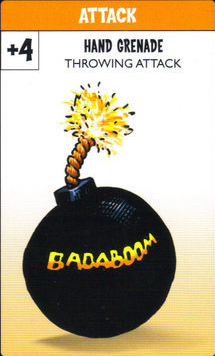
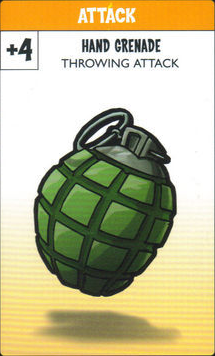
Added classes and stuff :)

diff --git a/test.html b/test.html
@@ -1,66 +1,210 @@
 <head>
+	<script>
+	/* Simple JavaScript Inheritance
+ * By John Resig http://ejohn.org/
+ * MIT Licensed.
+ */
+// Inspired by base2 and Prototype
+(function(){
+  var initializing = false, fnTest = /xyz/.test(function(){xyz;}) ? /\b_super\b/ : /.*/;
+
+  // The base Class implementation (does nothing)
+  this.Class = function(){};
+ 
+  // Create a new Class that inherits from this class
+  Class.extend = function(prop) {
+    var _super = this.prototype;
+   
+    // Instantiate a base class (but only create the instance,
+    // don't run the init constructor)
+    initializing = true;
+    var prototype = new this();
+    initializing = false;
+   
+    // Copy the properties over onto the new prototype
+    for (var name in prop) {
+      // Check if we're overwriting an existing function
+      prototype[name] = typeof prop[name] == "function" &&
+        typeof _super[name] == "function" && fnTest.test(prop[name]) ?
+        (function(name, fn){
+          return function() {
+            var tmp = this._super;
+           
+            // Add a new ._super() method that is the same method
+            // but on the super-class
+            this._super = _super[name];
+           
+            // The method only need to be bound temporarily, so we
+            // remove it when we're done executing
+            var ret = fn.apply(this, arguments);       
+            this._super = tmp;
+           
+            return ret;
+          };
+        })(name, prop[name]) :
+        prop[name];
+    }
+   
+    // The dummy class constructor
+    function Class() {
+      // All construction is actually done in the init method
+      if ( !initializing && this.init )
+        this.init.apply(this, arguments);
+    }
+   
+    // Populate our constructed prototype object
+    Class.prototype = prototype;
+   
+    // Enforce the constructor to be what we expect
+    Class.prototype.constructor = Class;
+
+    // And make this class extendable
+    Class.extend = arguments.callee;
+   
+    return Class;
+  };
+})();
+
+	</script>
     <script src="http://www.html5canvastutorials.com/libraries/kinetic-v3.8.2.js">
     </script>
     <script>
-        window.onload = function(){
+
+		var tempImage = new Image();
+		tempImage.src = "cards/grenade.png";
+	
+		var Card = Class.extend({
+			init: function(id) {
+				this.id = id;
+				this.name = id.replace("_", "");
+				this.imageSrc = "cards/" + id + ".png";
+			},
+			drawCard: function(i, layer) {
+				
+				var currentCard = new Kinetic.Image({
+					x: i * 30 + 210,
+					y: i * 18 + 140,
+					width: 108,
+					height: 178,
+					image: tempImage,
+					stroke: 'black',
+					strokeWidth: 4
+				});
+				var currentImage = new Image();
+				currentImage.onload = function() {
+					console.log('loooooooooooad');
+					console.log(currentImage);
+					currentCard.setImage(currentImage);
+					console.log(currentCard);
+				}
+				currentImage.src = this.imageSrc;
+				
+				
+				
+				currentCard.on("mouseover", function(){
+					document.body.style.cursor = "pointer";
+				});
+				currentCard.on("mouseout", function(){
+					document.body.style.cursor = "default";
+				});
+				currentCard.on("mousedown", function(){
+					this.moveToTop();
+					this.draggable(true);
+					layer.draw();
+				});
+				currentCard.on("dragend", function() {
+					this.draggable(false);
+				});
+					
+				
+				
+				return currentCard;
+			}
+		});
+		
+		var JunkCard = Card.extend({
+			init: function(id, type, size, strength){
+				this._super(id);
+				this.type = type;
+				this.size = size;
+				this.strength = strength;
+			}
+		});
+		
+		var AttackCard = Card.extend({
+			init: function(id, type, damage){
+				this._super(id);
+				this.type = type;
+				this.damage = damage;
+			}
+		});
+		
+		var ReinforcementCard = Card.extend({
+			init: function(id, strength){
+				this._super(id);
+				this.strength = strength;
+			}
+		});
+		
+		var CardDeck = Class.extend({
+			init: function(){
+				this.cards = [
+					new AttackCard("hand_grenade", "throwing", 4),
+					new AttackCard("bomb", "throwing", 4),
+					new JunkCard("mannequin", "ornament", 2, 2),
+					new JunkCard("crash_test_dummy", "ornament", 2, 2),
+					new ReinforcementCard("yakuza", 2),
+					new ReinforcementCard("protection_racket", 2),
+				];
+			},
+			shuffle: function() {
+				var tmp, current, top = this.cards.length;
+
+				if(top) while(--top) {
+					current = Math.floor(Math.random() * (top + 1));
+					tmp = this.cards[current];
+					this.cards[current] = this.cards[top];
+					this.cards[top] = tmp;
+				}
+			}
+		});	
+		
+		var deck = new CardDeck();
+		deck.shuffle();
+		
+		var gameBoard = Class.extend({
+			init: function() {
+				this.isNearArea = function(card, area){
+					var a = card;
+					var o = area;
+					if (a.x > o.x - 20 && a.x < o.x + 20 && a.y > o.y - 20 && a.y < o.y + 20) {
+						return true;
+					}
+					else {
+						return false;
+					}
+				}
+			}
+			
+		});
+		
+        window.onload = function() {
+		
             var stage = new Kinetic.Stage("container", 999, 999);
             var layer = new Kinetic.Layer();
 			
-			var imageUrls = ["cards/grenade.png","cards/grenade2.png","cards/junk1.png","cards/junk2.png","cards/reinforcement1.png","cards/reinforcement2.png"];
-			var cardImages = [];
-			var cards = [];
+			console.log(deck.cards.length);
 			
-			
-			for (var n = 0; n < imageUrls.length; n++) {
-                // anonymous function to induce scope
-                (function(){
-                    var i = n;
-					
-					
-					cardImages.push(new Image());
-					var currentImage = cardImages[cardImages.length-1];
-					
-					currentImage.onload = function() {
-						cards.push(new Kinetic.Image({
-							x: i * 30 + 210,
-							y: i * 18 + 140,
-							image: currentImage,
-							width: 108,
-							height: 178,
-							stroke: 'black',
-							strokeWidth: 4
-
-						}));
-						
-						var currentCard = cards[cards.length-1];
-						console.log(currentCard);
-						
-						currentCard.on("mouseover", function(){
-							document.body.style.cursor = "pointer";
-						});
-						currentCard.on("mouseout", function(){
-							document.body.style.cursor = "default";
-						});
-						currentCard.on("mousedown", function(){
-							console.log('asdasdads');
-							this.moveToTop();
-							this.draggable(true);
-							layer.draw();
-						});
-						currentCard.on("dragend", function() {
-							this.draggable(false);
-						});
-						
-						layer.add(currentCard);
-					};
-					
-					currentImage.src = imageUrls[i%imageUrls.length];
-                })();
-            }
-			
+			for (var n = 0; n < deck.cards.length; n++) {
+				(function(){
+					var i = n;
+					var c = deck.cards[i].drawCard(i, layer);
+					layer.add(c);
+				})();
+			}
 			
 			setTimeout(function() {
-				console.log('qwe');
+				console.log(layer);
 				stage.add(layer);
 			}, 1000);
         };
@@ -71,3 +215,4 @@
     </div>
 </body>
 </html>
+
